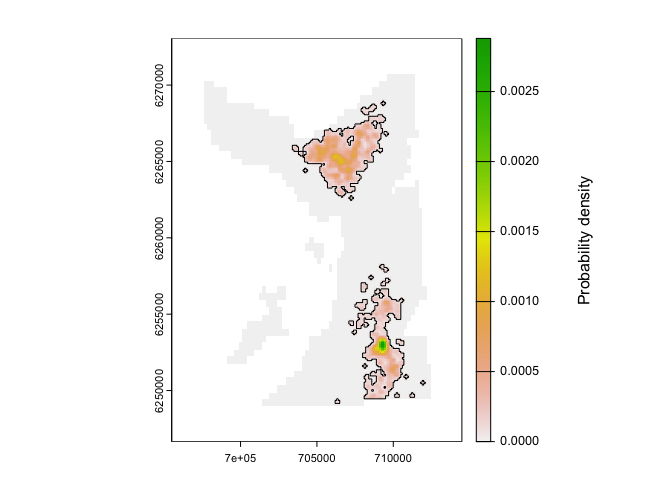
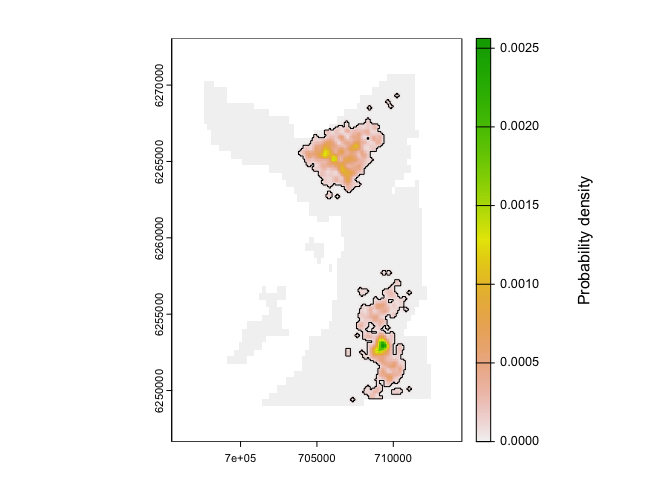
Fix bug

diff --git a/README.md b/README.md
@@ -521,12 +521,12 @@ fwd <- do.call(pf_filter, args, quote = TRUE)
 head(fwd$states)
 #>    path_id timestep           timestamp map_value        x       y
 #>      <int>    <int>              <POSc>     <num>    <num>   <num>
-#> 1:       1        1 2016-03-17 01:50:00  56.53801 709292.1 6253157
-#> 2:       1        2 2016-03-17 01:52:00  59.76520 709164.2 6253033
-#> 3:       1        3 2016-03-17 01:54:00  66.52094 709169.3 6253140
-#> 4:       1        4 2016-03-17 01:56:00  45.88295 709308.1 6252915
-#> 5:       1        5 2016-03-17 01:58:00  52.98276 709355.2 6253101
-#> 6:       1        6 2016-03-17 02:00:00  66.52094 709108.1 6253064
+#> 1:       1        1 2016-03-17 01:50:00  52.99475 709192.1 6252957
+#> 2:       1        2 2016-03-17 01:52:00  96.38661 709144.4 6253489
+#> 3:       1        3 2016-03-17 01:54:00  43.93122 709488.0 6252956
+#> 4:       1        4 2016-03-17 01:56:00  99.90396 709091.1 6253368
+#> 5:       1        5 2016-03-17 01:58:00  74.88351 709068.5 6253066
+#> 6:       1        6 2016-03-17 02:00:00  73.27666 709149.6 6253246
 
 # Backward run
 args$.direction <- "backward"
